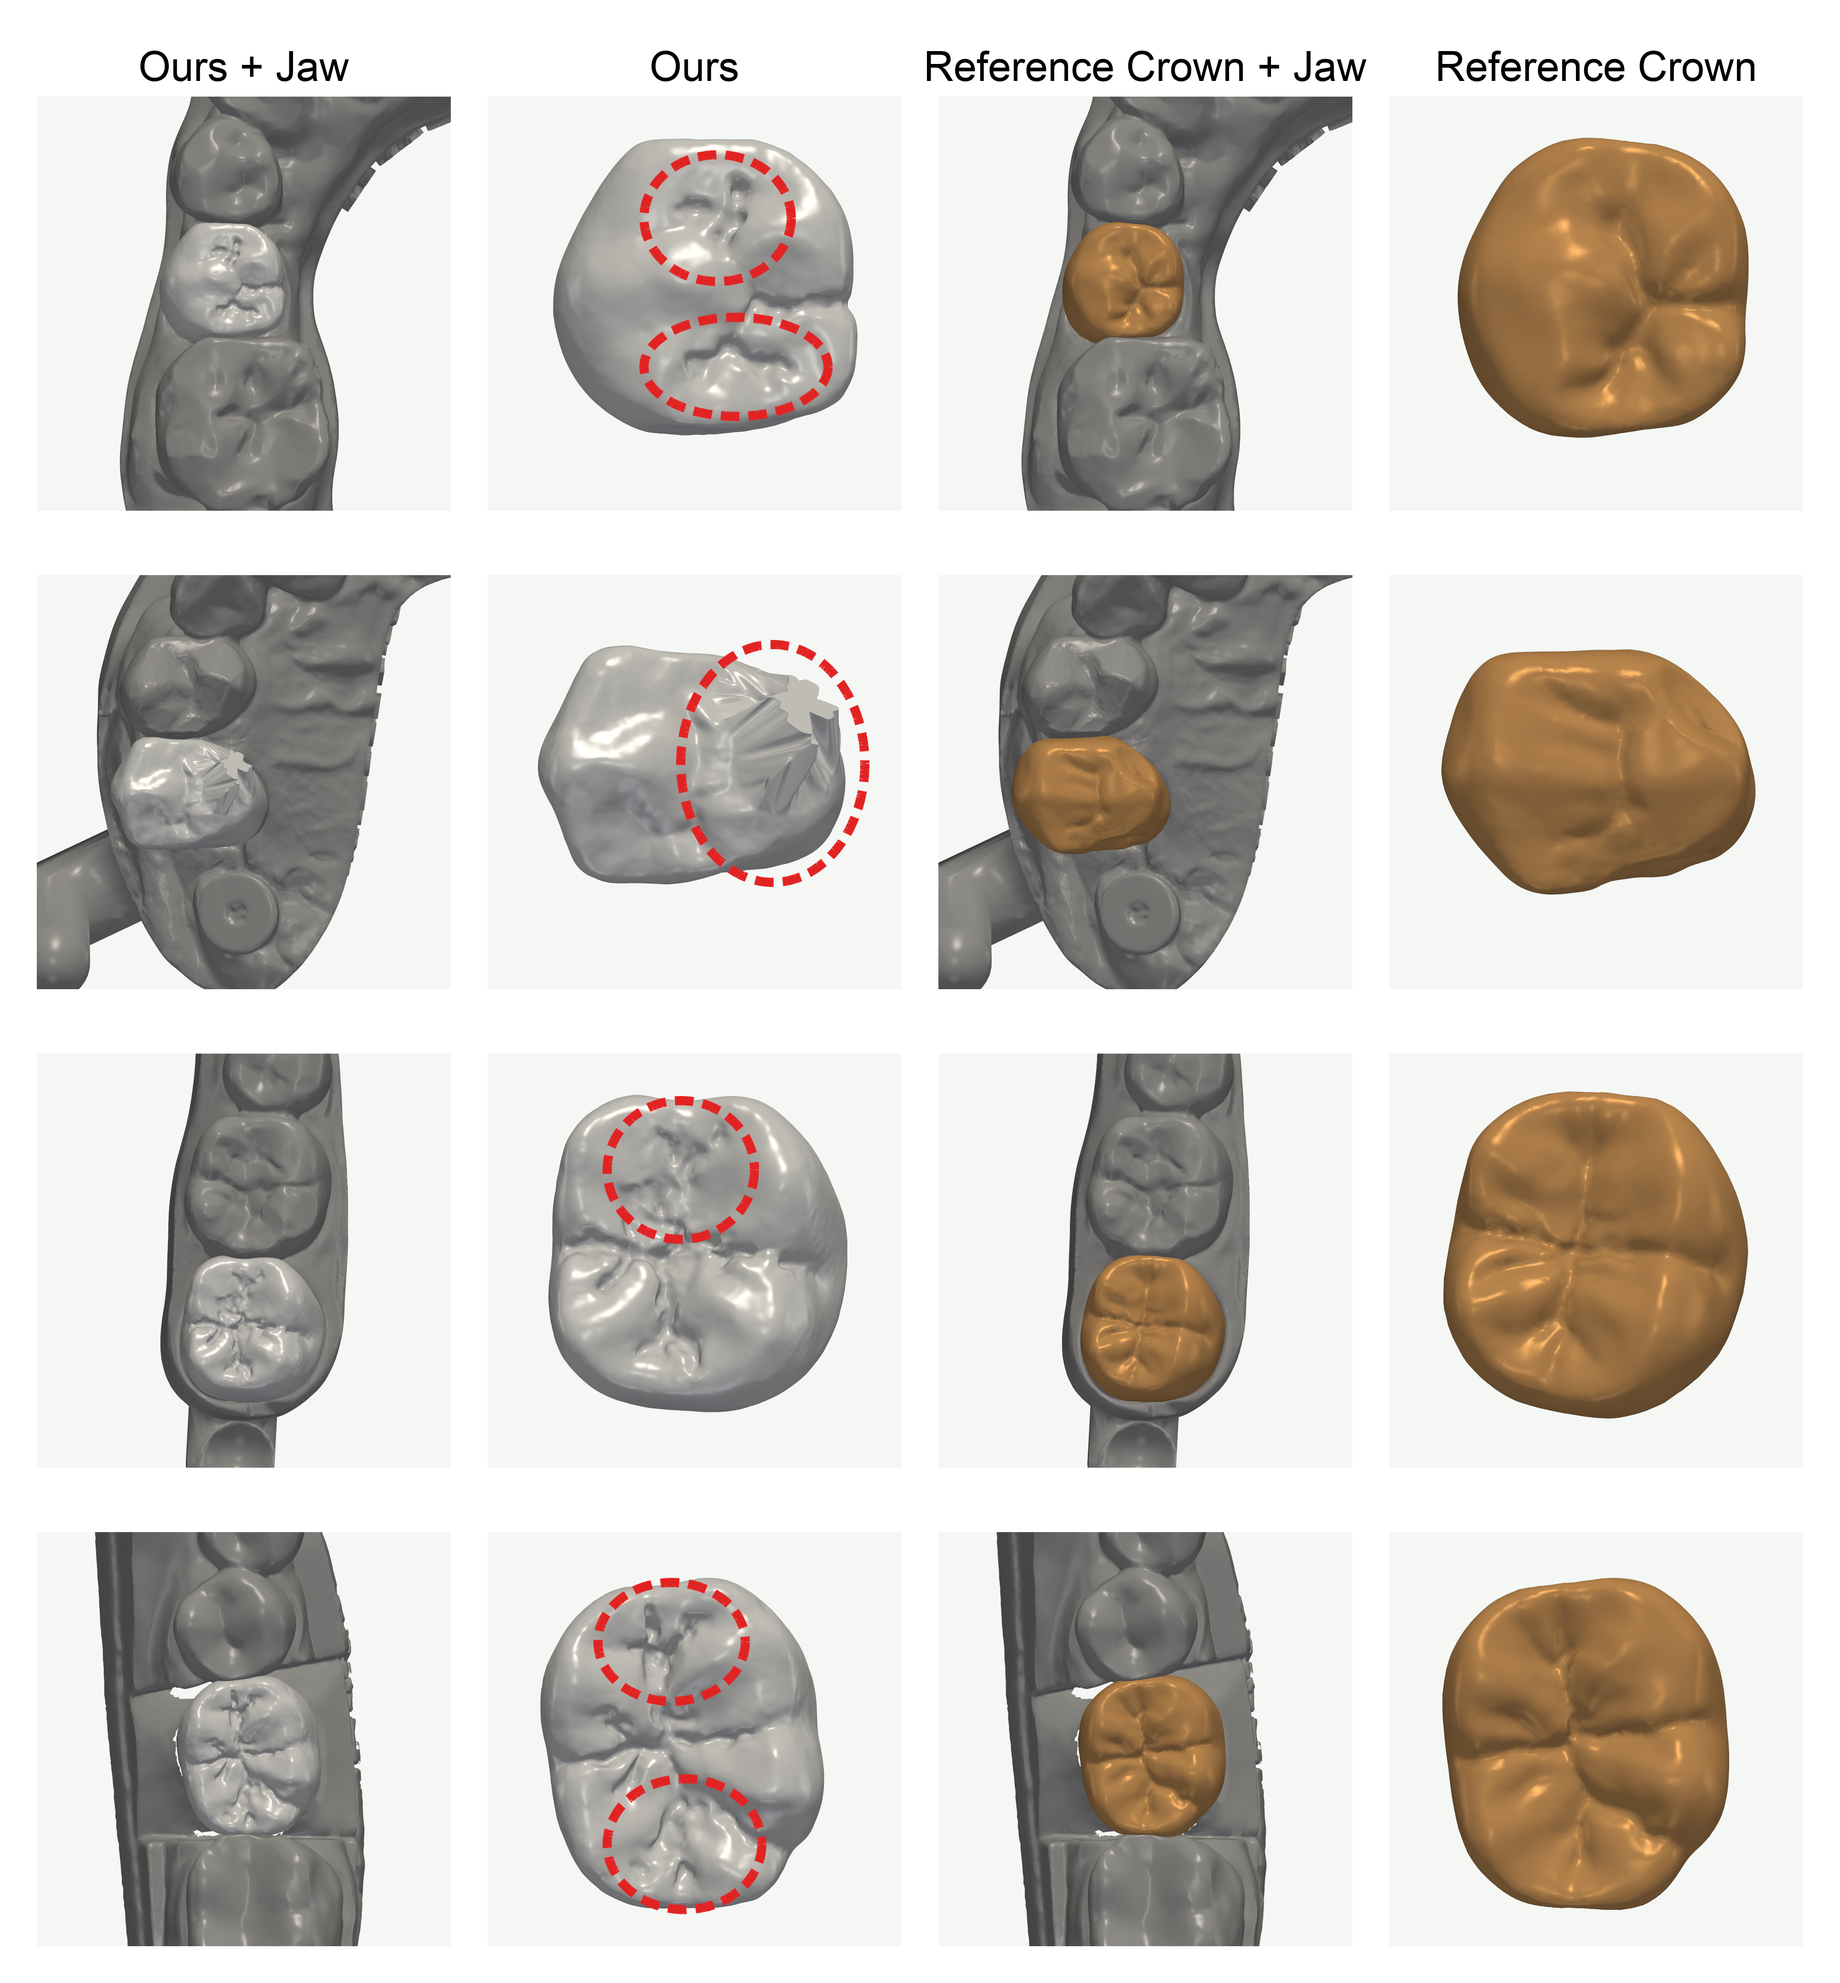
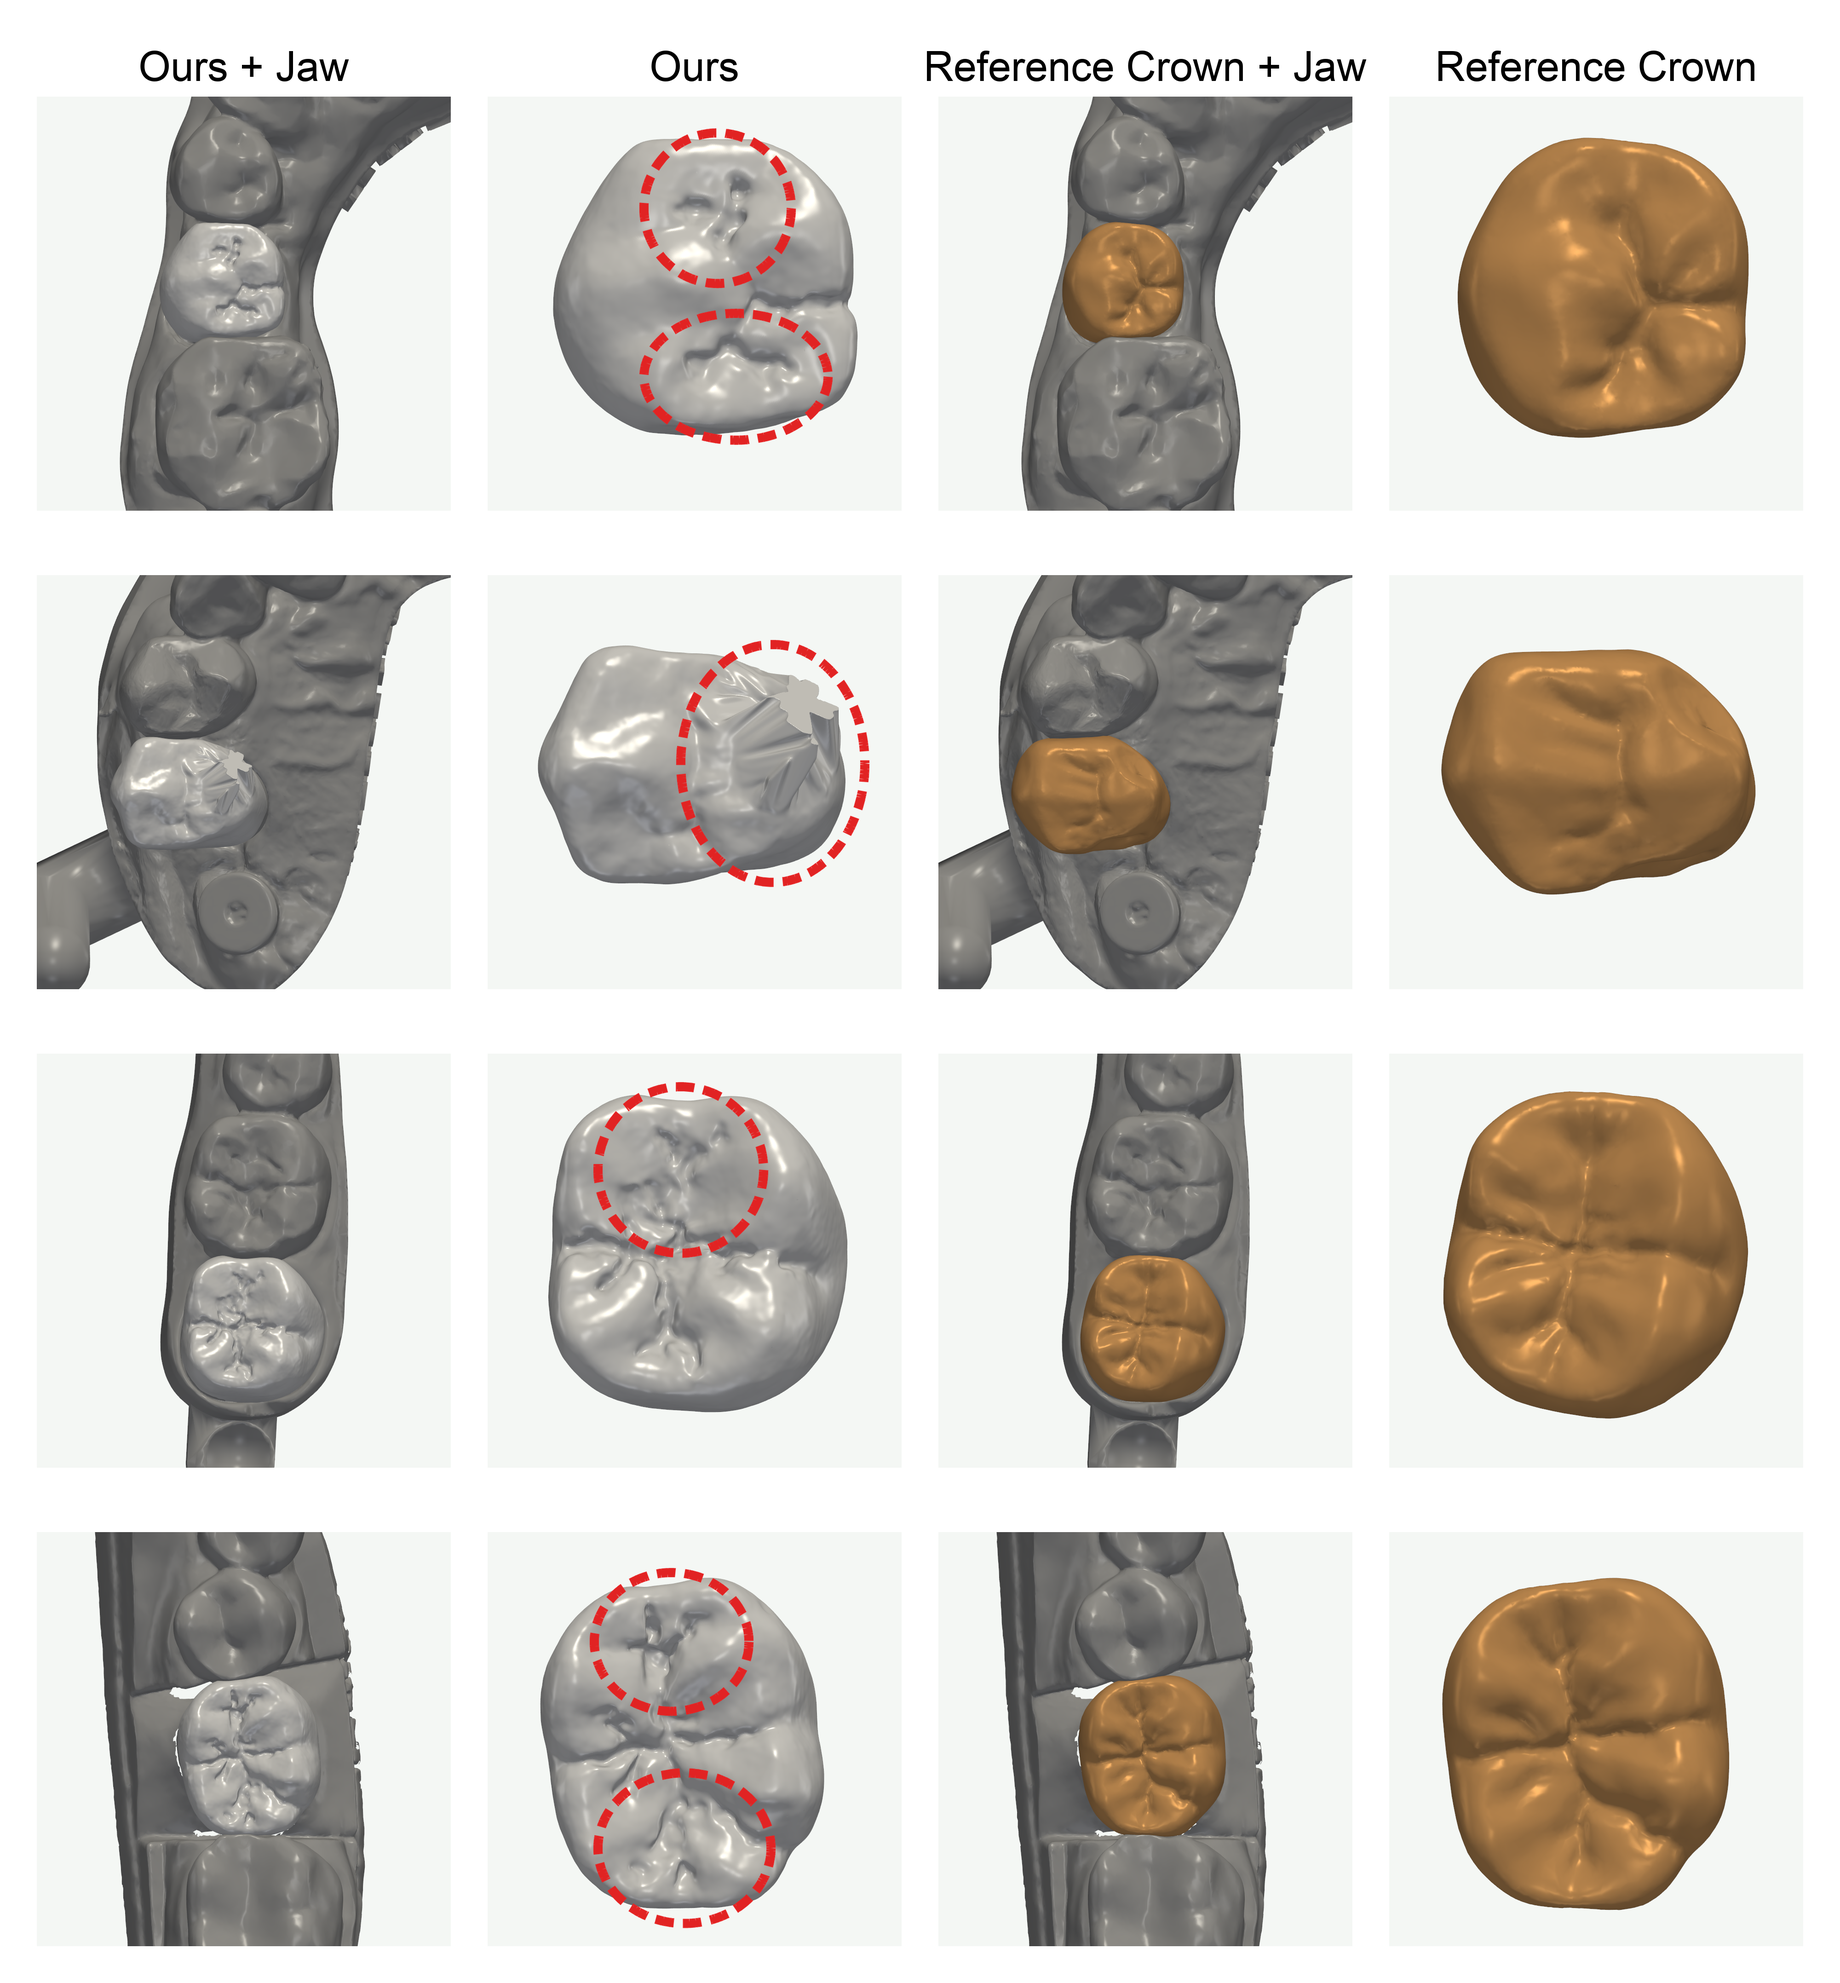
update merged_heatmaps_annotated.png

diff --git a/figures/false_cases/step4_add_cicle.py b/figures/false_cases/step4_add_cicle.py
@@ -48,8 +48,8 @@ ELLIPSES: list[dict[str, Any]] = [
         "name": "row1-1",
         "enabled": True,
         "units": "percent", # 按图像宽高的百分比定位
-        "center": (39, 11), # 椭圆中心
-        "radii": (4, 3.2), # 椭圆横、纵半径 
+        "center": (39, 10.5), # 椭圆中心
+        "radii": (4, 3.8), # 椭圆横、纵半径 
         "rotation_deg": 0, # 旋转角度 
         "color": (225, 35, 35), # 
         "alpha": 1.0, # 透明度
@@ -62,8 +62,8 @@ ELLIPSES: list[dict[str, Any]] = [
         "name": "row1-2",
         "enabled": True,
         "units": "percent", # 按图像宽高的百分比定位
-        "center": (40, 18.5), # 椭圆中心
-        "radii": (5, 2.5), # 椭圆横、纵半径 
+        "center": (40, 19), # 椭圆中心
+        "radii": (5, 3.2), # 椭圆横、纵半径 
         "rotation_deg": 0, # 旋转角度 
         "color": (225, 35, 35), # 
         "alpha": 1.0, # 透明度
@@ -91,7 +91,7 @@ ELLIPSES: list[dict[str, Any]] = [
         "enabled": True,
         "units": "percent", # 按图像宽高的百分比定位
         "center": (37, 59), # 椭圆中心
-        "radii": (4, 3.5), # 椭圆横、纵半径 
+        "radii": (4.5, 4.2), # 椭圆横、纵半径 
         "rotation_deg": 0, # 旋转角度 
         "color": (225, 35, 35), # 
         "alpha": 1.0, # 透明度
@@ -105,7 +105,7 @@ ELLIPSES: list[dict[str, Any]] = [
         "enabled": True,
         "units": "percent", # 按图像宽高的百分比定位
         "center": (36.5, 82.8), # 椭圆中心
-        "radii": (4, 3), # 椭圆横、纵半径 
+        "radii": (4.2, 3.5), # 椭圆横、纵半径 
         "rotation_deg": 0, # 旋转角度 
         "color": (225, 35, 35), # 
         "alpha": 1.0, # 透明度
@@ -118,8 +118,8 @@ ELLIPSES: list[dict[str, Any]] = [
         "name": "row4-2",
         "enabled": True,
         "units": "percent", # 按图像宽高的百分比定位
-        "center": (37.2, 93), # 椭圆中心
-        "radii": (4.2, 3.3), # 椭圆横、纵半径 
+        "center": (37.2, 93.2), # 椭圆中心
+        "radii": (4.7, 3.8), # 椭圆横、纵半径 
         "rotation_deg": 0, # 旋转角度 
         "color": (225, 35, 35), # 
         "alpha": 1.0, # 透明度
